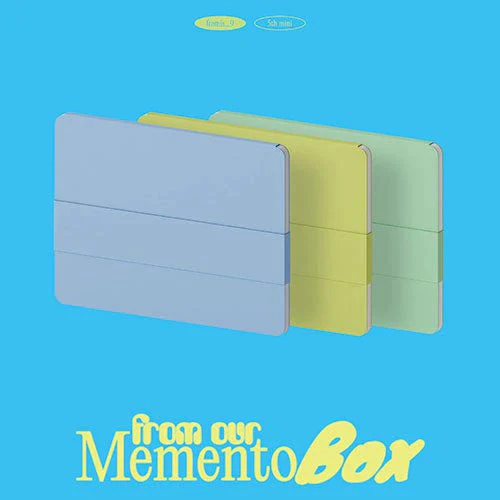
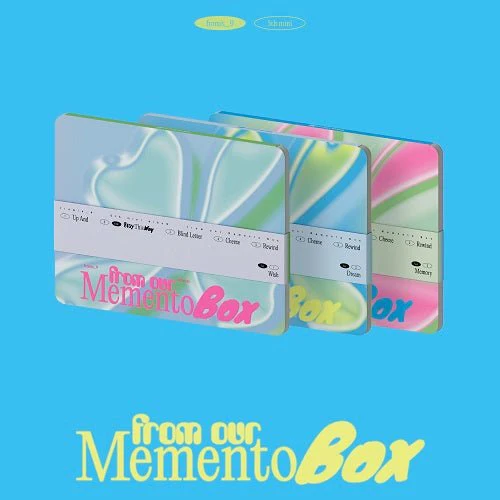
modificato discografia

diff --git a/css/styles.css b/css/styles.css
@@ -746,6 +746,105 @@ left: 880px;
   bottom: 20px;
   left: 1020px;
 }
+
+/* midnightguest */
+.midnightguestlogo{
+  position: relative;
+  right: -900px;
+height: 400px;}
+
+
+.midnightguest {
+  position: relative;
+  left: 90px;
+  display: flex;
+  justify-content: space-between;
+  padding: 40px;
+  width: 60%;
+  top: 30px;
+  bottom: 600px;
+
+
+}
+
+.h1midnightguest {
+  position: relative;
+bottom: 50px;
+left: 1000px;
+  font-size: 1.5rem;
+}
+
+.h4midnightguest {
+  position: relative;
+  left: 1010px;
+  bottom: 50px;
+  font-size: 1.5rem;
+}
+
+.rilasciamylittesociety {
+  position: relative;
+
+  top: 60px;
+  right: 130px;
+
+}
+
+.canzonimidnightguest{
+  position: relative;
+
+
+  bottom: 20px;
+  left: 1020px;
+}
+/* fromourmemento*/
+.fromourmementoboxlogo{
+  position: relative;
+  right: -570px;
+height: 400px;}
+
+
+.fromourmementobox {
+  position: relative;
+  left: 90px;
+  display: flex;
+  justify-content: space-between;
+  padding: 40px;
+  width: 60%;
+  top: 30px;
+  bottom: 600px;
+
+
+}
+
+.h1fromourmementobox {
+  position: relative;
+bottom: 250px;
+left: 950px;
+  font-size: 1.5rem;
+}
+
+.h4fromourmementobox {
+  position: relative;
+  left: 830px;
+  bottom: 130px;
+  font-size: 1.5rem;
+}
+
+.rilasciamylittesociety {
+  position: relative;
+
+  top: 60px;
+  right: 130px;
+
+}
+
+.canzonifromourmementobox{
+  position: relative;
+
+
+  bottom: 20px;
+  left: 1020px;
+}
 /* news */
 .membershipjpgroup {
   width: 75%;

diff --git a/discografia.html b/discografia.html
@@ -341,9 +341,90 @@
 
  </div>
 
+<br><br><br><br><br>
+
+ <div class="MidnightGuest">
+   <h1 style="color: red;" class="h1midnightguest">MIDNIGHT GUEST</h1>
+
+   <h5 class="h4midnightguest">4° Mini Album</h5>
 
 
 
+
+
+
+   <img class="midnightguestlogo" src="images/midnightguest.webp" alt="midnightguest" />
+
+
+
+
+
+
+
+ </div>
+
+
+
+
+
+ <br>
+ <div class="canzonimidnightguest">
+
+
+
+
+ <li>Escape Room</li>
+   <li><a href="https://www.youtube.com/watch?v=4gXmClk8rKI"><strong>DM</strong></a></li>
+   <li>Love is Around</li>
+   <li>Hush Hush</li>
+   <li>0g</li>
+
+
+
+
+ </div>
+ <br><br><br><br><br><br><br><br><br><br><br>
+
+ <div class="fromourmementobox">
+   <h1 style="color: red;" class="h1fromourmementobox">FROM OUR MEMENTO BOX</h1>
+
+   <h5 class="h4fromourmementobox">5° Mini Album</h5>
+
+
+
+
+
+
+   <img class="fromourmementoboxlogo" src="images/fromourmemento.webp" alt="fromourmementobox" />
+
+
+
+
+
+
+
+ </div>
+
+
+
+
+
+ <br>
+ <div class="canzonifromourmementobox">
+
+
+
+
+ <li>Up And</li>
+   <li><a href="https://www.youtube.com/watch?v=JC6budcACNE"><strong>Stay This Way</strong></a></li>
+   <li>Blind Letter</li>
+   <li>Cheese</li>
+   <li>Rewind</li>
+
+
+
+
+ </div>
 
 
 
